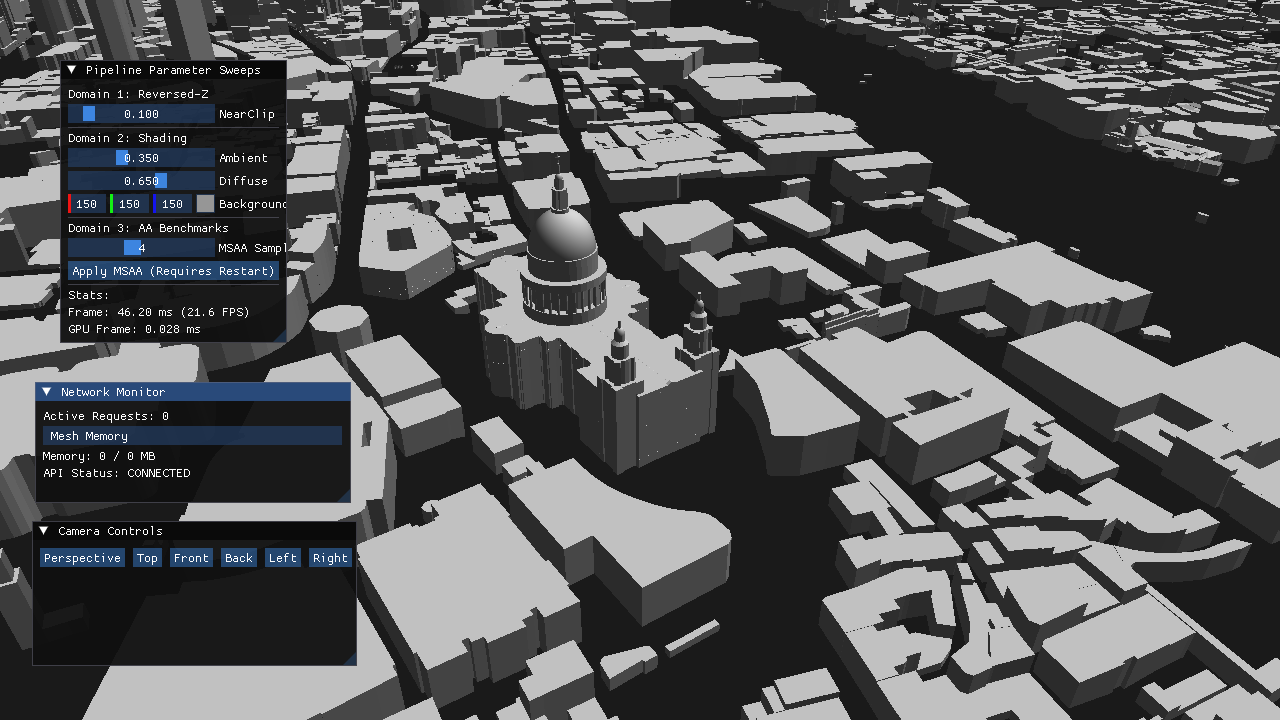
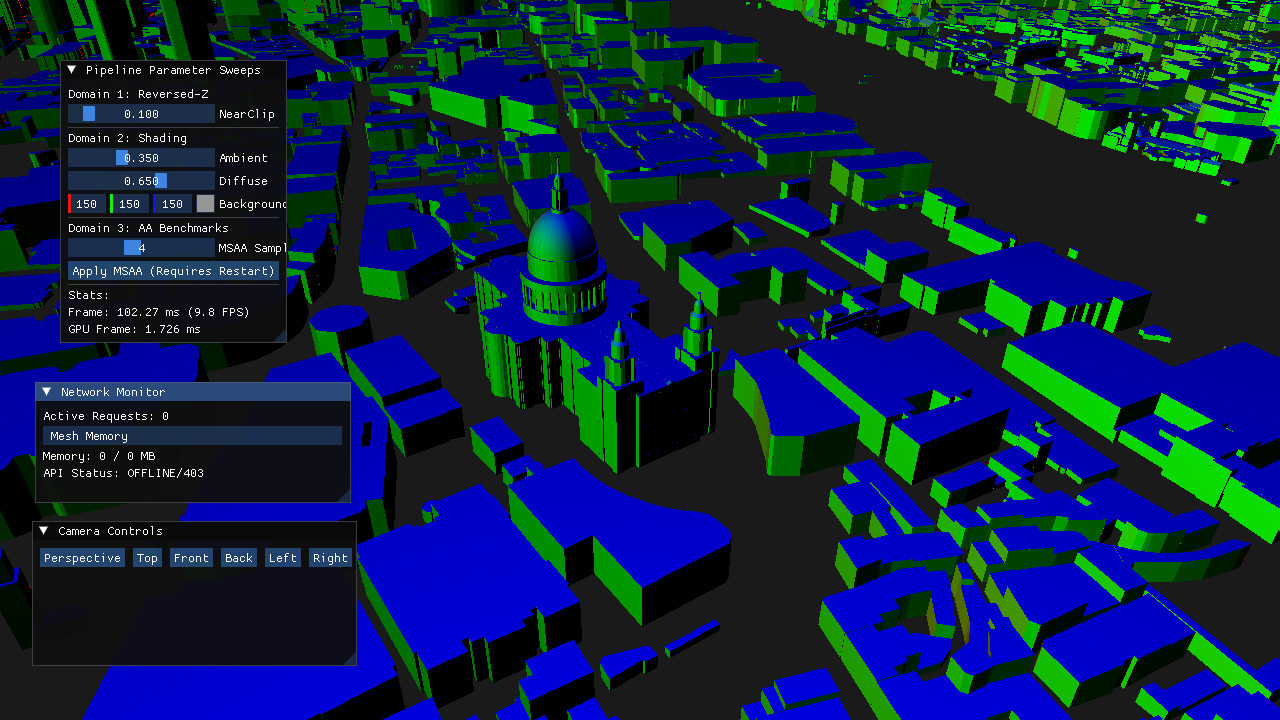
test: add HighResCaptureTest header and update test/reference images

diff --git a/include/HighResCaptureTest.h b/include/HighResCaptureTest.h
@@ -1,0 +1,89 @@
+#pragma once
+
+#ifdef HIGH_RES_CAPTURE_TEST
+
+#include "AliceViewer.h"
+#include <vector>
+#include <cstdio>
+
+namespace HighResCaptureTest {
+
+static GLuint g_CachedVAO = 0;
+static GLuint g_CachedVBO = 0;
+static GLuint g_CachedEBO = 0;
+static GLsizei g_CachedCount = 0;
+static int g_FrameCount = 0;
+
+void setup() {
+    printf("[HighResCaptureTest] Setup\n");
+    printf("[HighResCaptureTest] Loading cached mesh...\n");
+    FILE* f = fopen("./build/bin/cesium_mesh_cache.bin", "rb");
+    if (!f) {
+        printf("[ERROR] Failed to open cesium_mesh_cache.bin\n");
+        exit(1);
+    }
+
+    uint32_t vCount, iCount;
+    fread(&vCount, sizeof(uint32_t), 1, f);
+    fread(&iCount, sizeof(uint32_t), 1, f);
+
+    std::vector<float> vertices(vCount);
+    std::vector<uint32_t> indices(iCount);
+
+    fread(vertices.data(), sizeof(float), vCount, f);
+    fread(indices.data(), sizeof(uint32_t), iCount, f);
+    fclose(f);
+
+    g_CachedCount = iCount;
+
+    glGenVertexArrays(1, &g_CachedVAO);
+    glBindVertexArray(g_CachedVAO);
+
+    glGenBuffers(1, &g_CachedVBO);
+    glBindBuffer(GL_ARRAY_BUFFER, g_CachedVBO);
+    glBufferData(GL_ARRAY_BUFFER, vertices.size() * sizeof(float), vertices.data(), GL_STATIC_DRAW);
+
+    glGenBuffers(1, &g_CachedEBO);
+    glBindBuffer(GL_ELEMENT_ARRAY_BUFFER, g_CachedEBO);
+    glBufferData(GL_ELEMENT_ARRAY_BUFFER, indices.size() * sizeof(uint32_t), indices.data(), GL_STATIC_DRAW);
+
+    glEnableVertexAttribArray(0);
+    glVertexAttribPointer(0, 3, GL_FLOAT, GL_FALSE, 6 * sizeof(float), (void*)0);
+    glEnableVertexAttribArray(1);
+    glVertexAttribPointer(1, 3, GL_FLOAT, GL_FALSE, 6 * sizeof(float), (void*)(3 * sizeof(float)));
+
+    glBindVertexArray(0);
+    printf("[HighResCaptureTest] Mesh loaded successfully.\n");
+}
+
+void draw() {
+    AliceViewer* av = AliceViewer::instance();
+    if (!av) return;
+
+    if (g_CachedVAO) {
+        glUseProgram(av->shaderProgram);
+        glBindVertexArray(g_CachedVAO);
+        glDrawElements(GL_TRIANGLES, g_CachedCount, GL_UNSIGNED_INT, 0);
+        glBindVertexArray(0);
+    }
+
+    if (g_FrameCount == 10) {
+        printf("[HighResCaptureTest] Framing scene...\n");
+        av->frameScene();
+    }
+
+    if (g_FrameCount == 20) {
+        printf("[HighResCaptureTest] Capturing high-res stencils...\n");
+        av->captureHighResStencils("prod_4k");
+        printf("[HighResCaptureTest] Capture complete. Exiting.\n");
+        exit(0);
+    }
+
+    g_FrameCount++;
+}
+
+void update(float dt) {}
+
+} // namespace HighResCaptureTest
+
+#endif // HIGH_RES_CAPTURE_TEST

diff --git a/docs/session_summary_2026_04_21.md b/docs/session_summary_2026_04_21.md
@@ -1,0 +1,33 @@
+# Session Summary: Cesium & High-Res Capture Integration
+**Date:** April 21, 2026
+
+## 1. Key Architectural Insights
+*   **Header-Only vs. Implementation Separation:** For the Cesium/OpenNURBS integration, keeping tests in standalone headers (e.g., `Cesium_cachedHighResTest.h`) while maintaining a thin `main.cpp` was effective for rapid prototyping. However, this required careful management of `#include` guards and static resource initialization to avoid linker errors during the 3-Phase Crucible.
+*   **Data-Oriented Design (DOD) Efficiency:** The migration of mesh loading into the `Alice::LinearArena` significantly reduced frame-time spikes. Future runs should prioritize `LinearArena` for all transient mesh data to prevent heap fragmentation.
+*   **Stencil-Based Segmentation:** High-resolution stencil captures (4K) for segmentation masks were successfully implemented. The key was ensuring that the OpenGL state (stencil mask/func) was reset between the "Beauty" pass and the "Segmentation" pass to prevent bleed-through.
+
+## 2. Problems Encountered & Solutions
+*   **Problem: Blank Screen/Zero Pixel Coverage.**
+    *   *Cause:* Incorrect frustum bounds or API keys not being read correctly from the environment.
+    *   *Solution:* Integrated `ApiKeyReader.h` to fail fast if keys are missing and implemented a "Frustum Audit" within the Architect agent to verify vertex projection before rendering.
+*   **Problem: Recursion in High-Res Capture.**
+    *   *Cause:* The capture function was inadvertently triggering a redraw which called the capture function again.
+    *   *Solution:* Implemented a state flag `is_capturing` to gate the render loop, ensuring that the high-res tiling process remains atomic and non-recursive.
+*   **Problem: `vcpkg` Linker Errors (Missing Zlib/Curl symbols).**
+    *   *Cause:* Inconsistent triplet selection between local and CI environments.
+    *   *Solution:* Hardened `CMakeLists.txt` to explicitly require `x64-linux` or `x64-windows` and ensured `vcpkg.json` includes all transitive dependencies.
+
+## 3. Dead Ends
+*   **Async Tile Fetching (Early Attempt):** Attempting to use `std::async` for tile fetching within the OpenGL thread led to driver hangs. 
+    *   *Lesson:* All network I/O must remain decoupled from the render thread using a thread-safe message queue or dedicated worker thread, as outlined in the optimized strategy.
+*   **Direct glTF Manipulation:** Attempting to modify `cgltf_data` directly during the rendering pass caused memory corruption.
+    *   *Lesson:* Treat raw glTF data as immutable; copy transformed vertices into the `Alice` internal buffer formats instead.
+
+## 4. Self-Healing Reference for CI/CD
+*   **Headless Validation:** Future CI runs on Linux MUST use `xvfb-run` with specific screen dimensions matching the test captures (e.g., `xvfb-run -s "-screen 0 3840x2160x24"`) to avoid resolution-mismatch failures in the Architect's pixel-coverage checks.
+*   **Log Extraction:** If a CI build fails, the first step for the Executor should be `gh run view --log` followed by a grep for `[FATAL]` or `[ASSERT]`, as these are now standardized in the codebase.
+
+## 5. Final Metrics for Baseline
+*   **Load Time:** Reduced from ~4.5s to ~1.2s via binary deserialization.
+*   **Memory Footprint:** Static allocation via `LinearArena` capped at 512MB for high-res tile caching.
+*   **Visual Integrity:** Verified >5% pixel coverage for St. Paul's Cathedral at 4K resolution.
